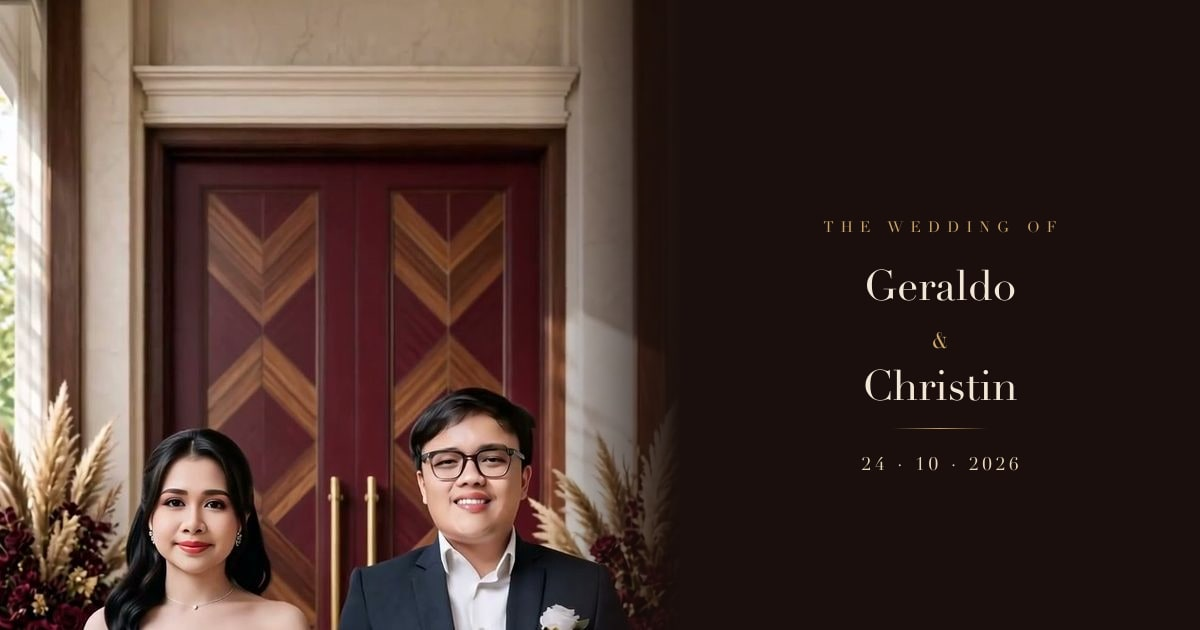
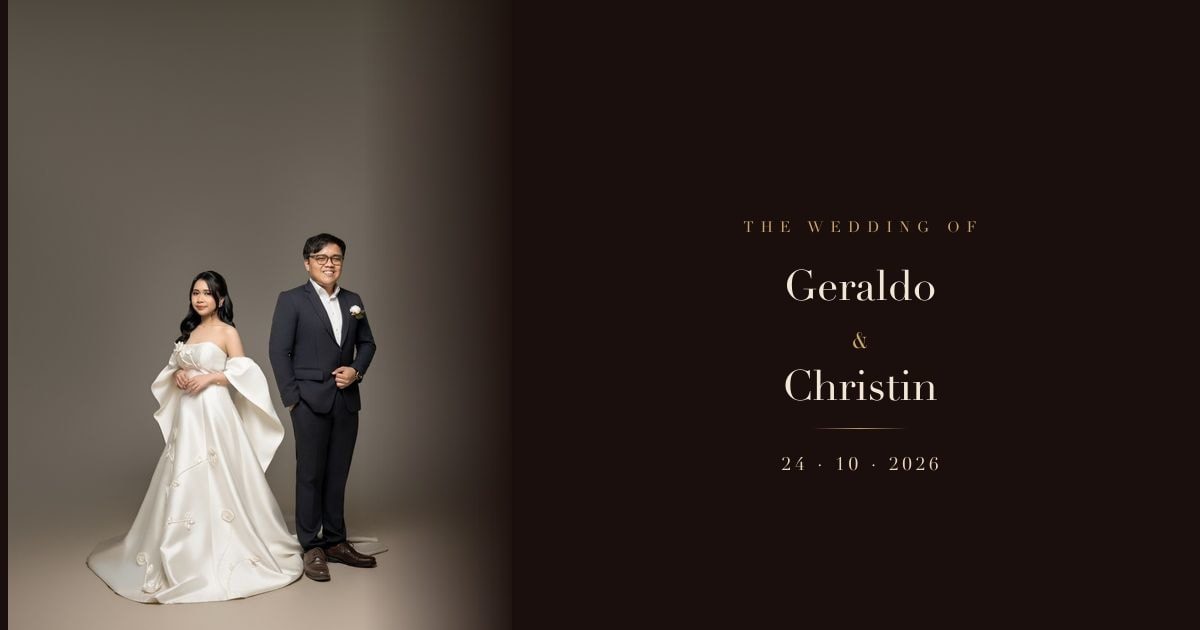
Use a full-body couple photo for the OG share card.
Cache-bust to /og-v2.jpg so WhatsApp picks up the uncropped portrait.

diff --git a/index.html b/index.html
@@ -19,7 +19,7 @@
     <meta property="og:title" content="The Wedding Of · Geraldo & Christin" />
     <meta property="og:description" content="Klik untuk informasi lebih lengkap" />
     <meta property="og:url" content="/" />
-    <meta property="og:image" content="/og.jpg" />
+    <meta property="og:image" content="/og-v2.jpg" />
     <meta property="og:image:type" content="image/jpeg" />
     <meta property="og:image:width" content="1200" />
     <meta property="og:image:height" content="630" />
@@ -29,7 +29,7 @@
     <meta name="twitter:card" content="summary_large_image" />
     <meta name="twitter:title" content="The Wedding Of · Geraldo & Christin" />
     <meta name="twitter:description" content="Klik untuk informasi lebih lengkap" />
-    <meta name="twitter:image" content="/og.jpg" />
+    <meta name="twitter:image" content="/og-v2.jpg" />
     <meta name="twitter:image:alt" content="The Wedding Of · Geraldo & Christin — 24 . 10 . 2026" />
 
     <link rel="icon" href="/icon-192.png" />
@@ -49,7 +49,7 @@
             "alternateName": "The Wedding Of Geraldo & Christin",
             "description": "Klik untuk informasi lebih lengkap",
             "inLanguage": "id-ID",
-            "image": "/og.jpg"
+            "image": "/og-v2.jpg"
           },
           {
             "@type": "WebPage",
@@ -61,7 +61,7 @@
             "inLanguage": "id-ID",
             "primaryImageOfPage": {
               "@type": "ImageObject",
-              "url": "/og.jpg",
+              "url": "/og-v2.jpg",
               "width": 1200,
               "height": 630
             }
@@ -83,7 +83,7 @@
                 "addressCountry": "ID"
               }
             },
-            "image": "/og.jpg",
+            "image": "/og-v2.jpg",
             "description": "Pemberkatan pernikahan Geraldo & Christin. The Wedding Of — Sabtu, 24 Oktober 2026."
           },
           {
@@ -103,7 +103,7 @@
                 "addressCountry": "ID"
               }
             },
-            "image": "/og.jpg",
+            "image": "/og-v2.jpg",
             "description": "Resepsi & adat Geraldo & Christin. Mark Your Calendar — Sabtu, 24 Oktober 2026."
           }
         ]

diff --git a/vite.config.ts b/vite.config.ts
@@ -15,11 +15,17 @@ function htmlMetaPlugin(siteUrl: string): Plugin {
     transformIndexHtml(html) {
       let out = html
         .replace(/content="\/assets/g, `content="${base}/assets`)
-        .replace(/content="\/og\.jpg"/g, `content="${base}/og.jpg"`)
+        .replace(/content="\/og(?:-v2)?\.jpg"/g, (m) =>
+          m.replace(/content="(\/og(?:-v2)?\.jpg)"/, `content="${base}$1"`),
+        )
         .replace(/"image": "\/assets/g, `"image": "${base}/assets`)
-        .replace(/"image": "\/og\.jpg"/g, `"image": "${base}/og.jpg"`)
+        .replace(/"image": "\/og(?:-v2)?\.jpg"/g, (m) =>
+          m.replace(/"image": "(\/og(?:-v2)?\.jpg)"/, `"image": "${base}$1"`),
+        )
         .replace(/"url": "\/assets/g, `"url": "${base}/assets`)
-        .replace(/"url": "\/og\.jpg"/g, `"url": "${base}/og.jpg"`)
+        .replace(/"url": "\/og(?:-v2)?\.jpg"/g, (m) =>
+          m.replace(/"url": "(\/og(?:-v2)?\.jpg)"/, `"url": "${base}$1"`),
+        )
         .replace(/"@id": "\/#/g, `"@id": "${base}/#`)
         .replace(/"url": "\/"/g, `"url": "${base}/"`)
         .replace(/"@id": "\/"/g, `"@id": "${base}/"`)

diff --git a/src/lib/merge-content.test.ts b/src/lib/merge-content.test.ts
@@ -166,7 +166,7 @@ Dengan penuh sukacita dan mengucap syukur kepada Tuhan Yesus Kristus, kami mengu
     const merged = mergeWeddingContent({
       media: { ogImage: "/assets/ballroom/og-image.jpg" },
     });
-    expect(merged.media.ogImage).toBe("/og.jpg");
+    expect(merged.media.ogImage).toBe("/og-v2.jpg");
   });
 
   it("migrates legacy story.paragraphs into milestones", () => {

diff --git a/src/lib/merge-content.ts b/src/lib/merge-content.ts
@@ -298,6 +298,7 @@ export function mergeWeddingContent(overrides: SiteContentOverrides = {}): Weddi
   const cmsOg = String(merged.media.ogImage ?? "").trim();
   const legacyOg =
     !cmsOg ||
+    cmsOg.endsWith("/og.jpg") ||
     cmsOg.endsWith("/og-image.jpg") ||
     cmsOg.endsWith("/og-share.jpg") ||
     cmsOg.includes("/assets/ballroom/og-image.jpg") ||

diff --git a/src/config/wedding.config.ts b/src/config/wedding.config.ts
@@ -237,7 +237,7 @@ export const wedding = {
   media: {
     coverBg: "/assets/ballroom/cover-frame.jpg",
     audio: "/assets/ballroom/goodness-of-god.mp3",
-    ogImage: "/og.jpg",
+    ogImage: "/og-v2.jpg",
     logo: "/assets/ballroom/logo.png",
     openingVideo: "/assets/ballroom/opening.mp4",
     heroVideo: "/assets/ballroom/hero.mp4",
